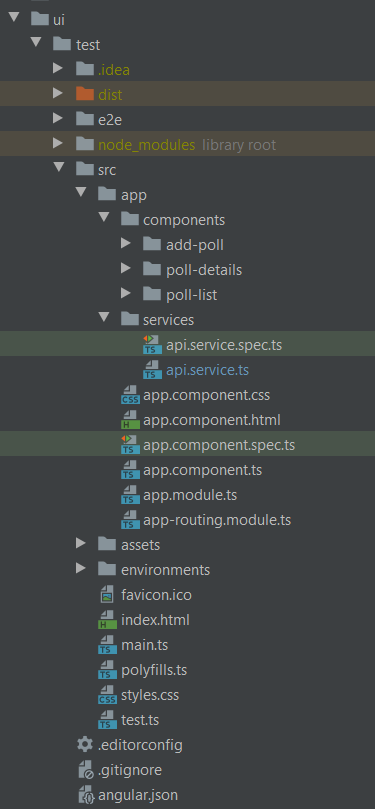
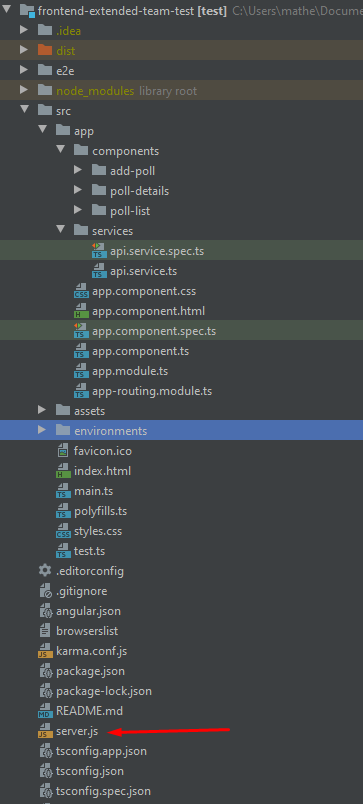
update read me

Changed region(s): [[0.0, 0.0, 1.0, 1.0], [0.4848, 0.0933, 0.5455, 0.1244], [0.3939, 0.0933, 0.4545, 0.1244]]

diff --git a/README.md b/README.md
@@ -36,7 +36,7 @@ Desired features, in order of priority:
 
 For solving this test, the front end is treated as a separated part from backend. The front end was built using Angular 9, the back end was built using Java 8 + SpringBoot, and the database is being hosted in my private AWS RDS, in a MySQL database.
 
-For quick testing the app in a ambient similar to a production environment, it was deployed in a CI/CD pipeline service known as heroku. The deployed version can be accessed in [this link](https://extended-team-test.herokuapp.com/). Everytime a new code was pushed to the master branch, the heroku pipeline automatically detects the changes, and built it in a certain url.
+For quick testing the app in a ambient similar to a production environment, it was deployed in a CI/CD pipeline service known as heroku. The deployed version can be accessed in [this link](https://frontend-extended-team-test.herokuapp.com/). Everytime a new code was pushed to the master branch, the heroku pipeline automatically detects the changes, and built it in a certain url.
 
 ### Front End Structure
 
@@ -53,12 +53,13 @@ There are 3 components: `poll-list`, `poll-details`, `add-poll`.
 
 – `app.module.ts` declares Angular components and import necessary modules.
 
+The `server.js` file is a NodeJs file that is being used to deploy the angular app to heroku.
+
 ### Back End Structure
 
 ![Back End Strutcture](images/back-end-structure.png)
 
 The back end was built using Java 8 + Spring Boot + Maven. The `pom.xml` file was generated using the [Spring Initializr service](https://start.spring.io/).
-The Angular source code is located inside the `/src/web` folder.
 
 – `Poll` data model class corresponds to entity and table poll.
 
@@ -97,14 +98,16 @@ To run it in your localhost, you need to start the back end and the front end as
 To start the back end:  
 
 ```
-git clone https://github.com/ghostproducer/extended-team-test
-cd extended-team-test-master/
+git clone https://github.com/ghostproducer/backend-extended-team-test
+cd backend-extended-team-test-master/
+mvn clean install
 mvn spring-boot:run
 ```
 
 To start the front end, open a new terminal instance: 
 ```
-cd src/web/test/
+git clone https://github.com/ghostproducer/frontend-backend-extended-team-test
+cd frontend-extended-team-test-master/
 npm install
 ng serve
 ```
@@ -115,4 +118,6 @@ The application can then be accessed in the browser, trough the url http://local
 
 Even tough it was not requested to deploy the app in a production environment, Heroku provides a simple alternative to test the app in a real world approach.
 
-To publish on the internet, you need to build the front end files, using the `ng build prod` in the Angular root folder. Then, copy the generated files from the `/target/` folder to the `/src/main/resources/static` folder, which will be served from the Java backend.
+To publish this app in the internet, two heroku instances were created, one for the front end, and other for the back end.
+
+The back end exposes the API endpoint in the heroku app url, which is accessed by the front end REST requests.
